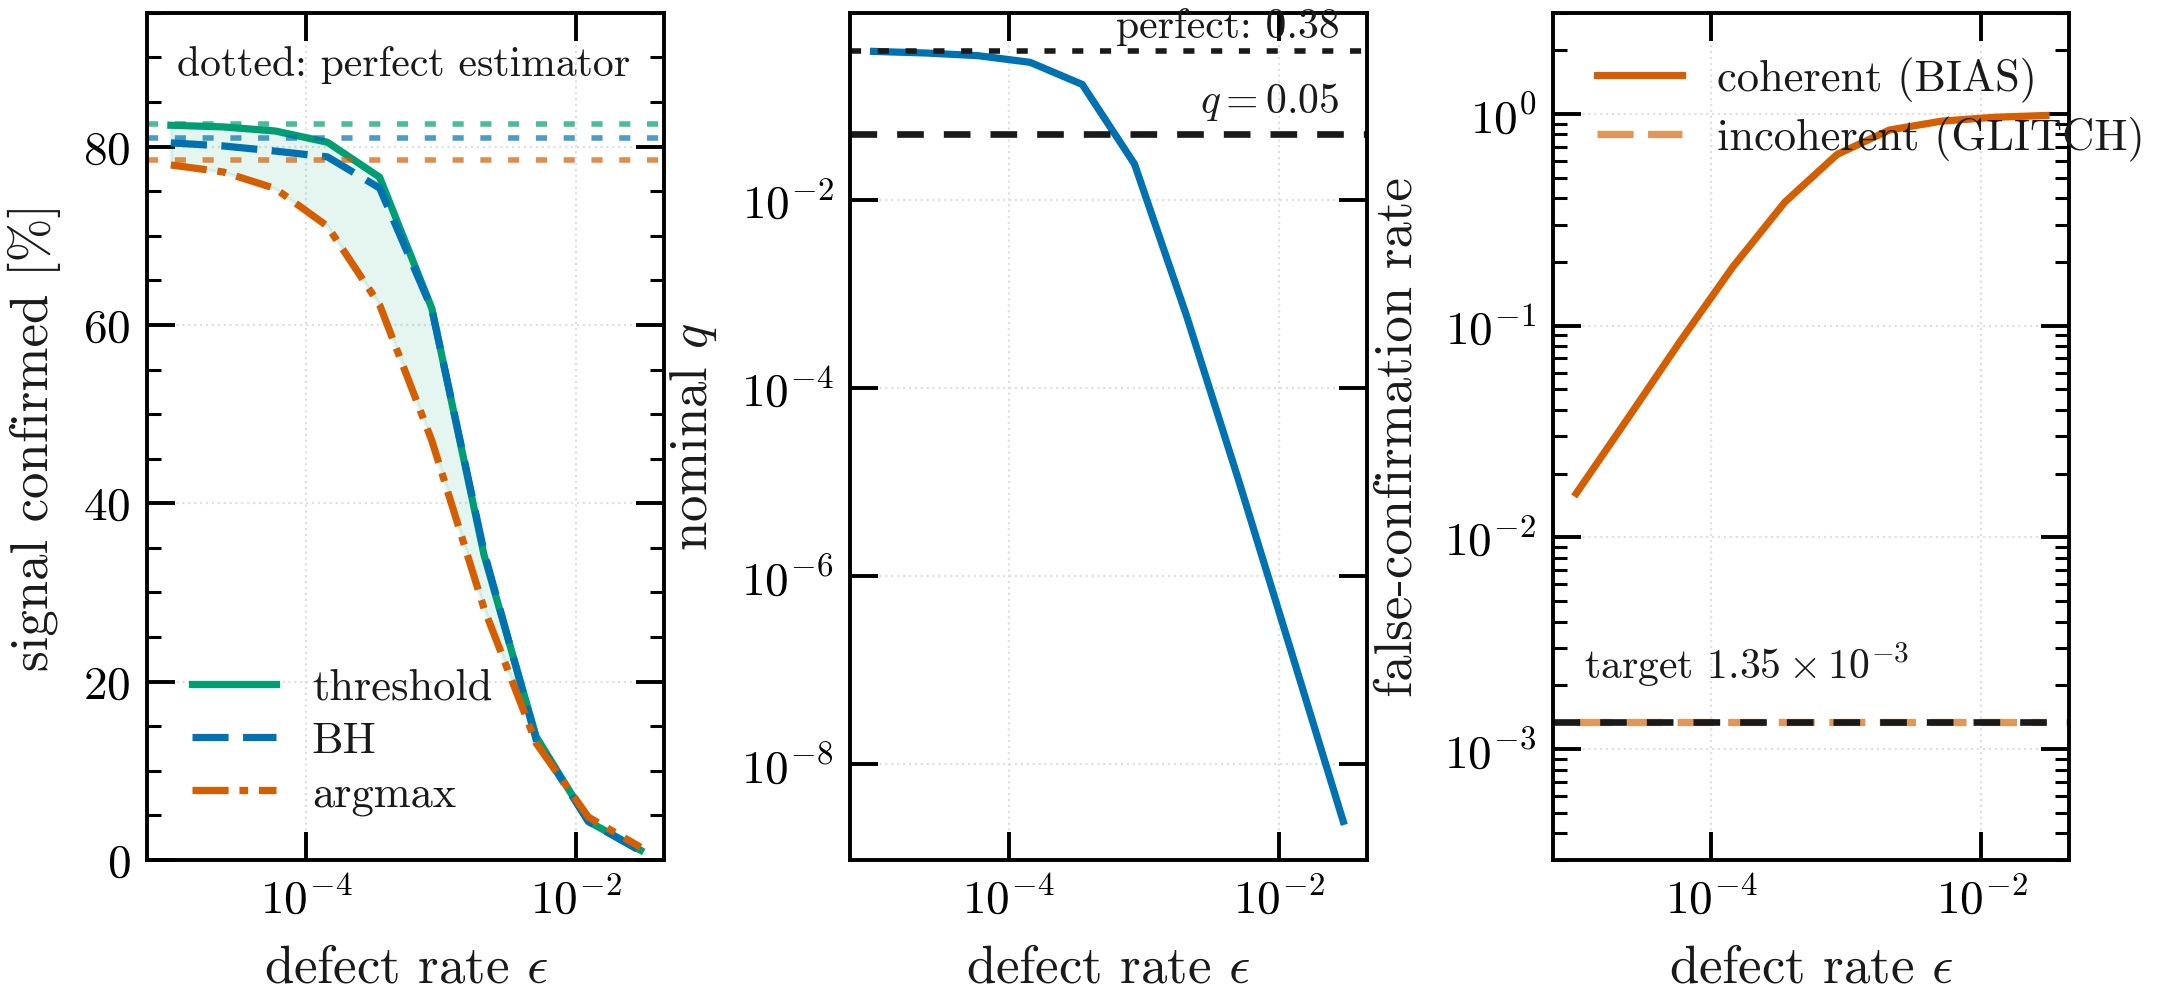
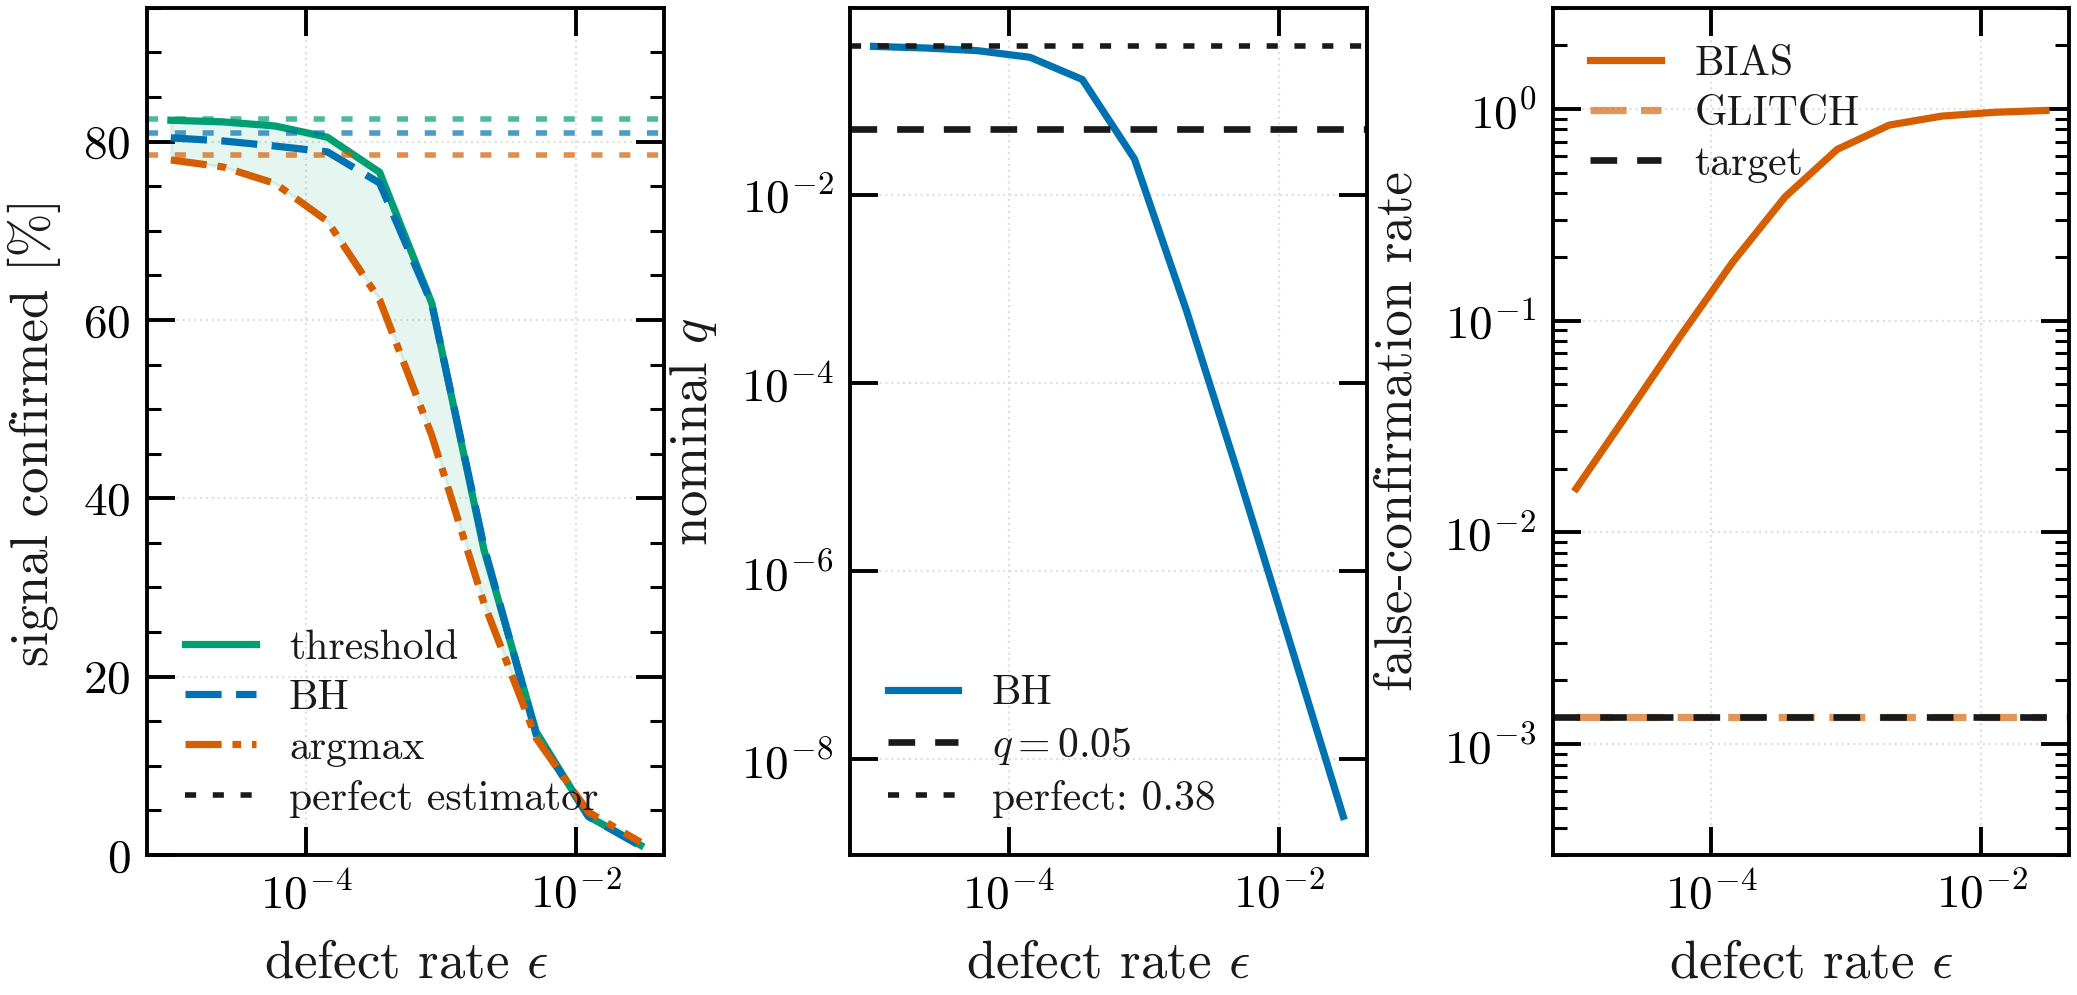
Give each panel of the selection-rule figure one legend, and link the repository
Figure 4 had its keys scattered: two or three text blocks per panel, each parked
in whichever corner happened to be free, and two of them overflowing the panel
into its neighbour's axis label. Every panel now carries exactly one frameless
legend and nothing floating -- the dotted and dashed reference lines became
legend entries instead of annotations, and the labels are short enough to sit
inside a panel 1.5 inches wide. Panels 1 and 2 key at lower left; panel 3 keys at
upper left because its curve occupies the lower left.

The census appendix now names the public repository rather than saying "the code
repository".

diff --git a/scripts/bh_fdr_outliers.py b/scripts/bh_fdr_outliers.py
@@ -270,32 +270,40 @@ for y, col, lbl, dash in ((pw_thr, c_thr, "threshold", "-"),
     a0.axhline(ref["thr" if col is c_thr else "bh" if col is c_bh else "arg"],
                color=col, lw=1.0, ls=(0, (2, 3)), alpha=0.7)
 a0.fill_between(EPS, pw_arg, pw_thr, color=c_thr, alpha=0.10)
-a0.text(2.5e-2, 88, "dotted: perfect estimator", color=ink2, fontsize=7.5, ha="right")
 a0.set_ylim(0, 95)
 a0.set_xlabel(r"defect rate $\epsilon$", color=ink2)
 a0.set_ylabel("signal confirmed [%]", color=ink2)
-a0.legend(frameon=False, fontsize=8, loc="lower left", labelcolor=ink2)
 
 # (b) the nominal FDR stops meaning anything
-a1.loglog(EPS, q_need, lw=1.3, color=c_bh)
-a1.axhline(0.05, color=ink2, lw=1.2, ls=(0, (4, 3)))
-a1.text(2.8e-2, 0.085, "$q = 0.05$", color=ink2, fontsize=7.5, ha="right")
-a1.axhline(ref_q := at_budget(b0[0], QGRID, XREF), color=ink2, lw=1.0, ls=(0, (2, 3)))
-a1.text(2.8e-2, ref_q * 1.4, f"perfect: {ref_q:.2f}",
-        color=ink2, fontsize=7.5, ha="right")
+a1.loglog(EPS, q_need, lw=1.3, color=c_bh, label="BH")
+a1.axhline(0.05, color=ink2, lw=1.2, ls=(0, (4, 3)), label="$q = 0.05$")
+a1.axhline(ref_q := at_budget(b0[0], QGRID, XREF), color=ink2, lw=1.0, ls=(0, (2, 3)),
+           label=f"perfect: {ref_q:.2f}")
 a1.set_xlabel(r"defect rate $\epsilon$", color=ink2)
 a1.set_ylabel("nominal $q$", color=ink2)
 
 # (c) the argmax has no dial at all
-a2.loglog(EPS, x_arg_b, lw=1.3, color=c_arg, label="coherent (BIAS)")
+a2.loglog(EPS, x_arg_b, lw=1.3, color=c_arg, label="BIAS")
 a2.loglog(EPS, x_arg_g, lw=1.3, ls=(0, (5, 2)), color=c_arg, alpha=0.65,
-          label="incoherent (GLITCH)")
-a2.axhline(XREF, color=ink2, lw=1.2, ls=(0, (4, 3)))
-a2.text(1.15e-5, XREF * 1.6, r"target $1.35\times10^{-3}$", color=ink2, fontsize=7.5)
+          label="GLITCH")
+a2.axhline(XREF, color=ink2, lw=1.2, ls=(0, (4, 3)),
+           label="target")
 a2.set_ylim(3e-4, 3.0)
 a2.set_xlabel(r"defect rate $\epsilon$", color=ink2)
 a2.set_ylabel("false-confirmation rate", color=ink2)
-a2.legend(frameon=False, fontsize=8, loc="upper left", labelcolor=ink2)
+
+# One frameless legend per panel and nothing floating: the dotted/dashed reference lines
+# are legend entries rather than annotations parked in whichever corner was free.
+from matplotlib.lines import Line2D
+a0.legend(handles=a0.get_legend_handles_labels()[0]
+                  + [Line2D([], [], color=ink2, lw=1.0, ls=(0, (2, 3)),
+                            label="perfect estimator")],
+          frameon=False, fontsize=7.5, loc="lower left", labelcolor=ink2,
+          handlelength=1.7, borderaxespad=0.5)
+a1.legend(frameon=False, fontsize=7.5, loc="lower left", labelcolor=ink2,
+          handlelength=1.7, borderaxespad=0.5)
+a2.legend(frameon=False, fontsize=7.5, loc="upper left", labelcolor=ink2,
+          handlelength=1.7, borderaxespad=0.5)
 
 fig.savefig(os.path.join(OUT, "bh_outliers.png"), dpi=400, facecolor=surf, bbox_inches="tight")
 print("\nwrote max_of_gaussians/bh_outliers.png")

diff --git a/scripts/export_census_bib.py b/scripts/export_census_bib.py
@@ -120,8 +120,9 @@ is how many scan that spectrum and \\emph{{last}} is the year of the most recent
 recency classification in Table~\\ref{{tab:census}} is built from.
 
 Only that most recent paper is cited, one per spectrum, so the bibliography stays the length of the
-argument rather than of the record. The record itself lives with the code, as
-\\texttt{{CENSUS\\_REFERENCES.md}} under \\texttt{{results/overviews/}}, and lists all
+argument rather than of the record. The record itself lives with the code
+(\\url{{https://github.com/rodem-hep/search-budget}}), as \\texttt{{CENSUS\\_REFERENCES.md}} under
+\\texttt{{results/overviews/}}, and lists all
 {len(set(ids))} with title, journal reference and DOI, grouped under the spectrum each is counted
 against. Assembled from the collaboration's publication record and curated by hand, so it is
 complete to the best of our knowledge rather than machine-verifiable. Scope matches the budget's, so

diff --git a/results/tex/census_appendix.tex b/results/tex/census_appendix.tex
@@ -9,8 +9,9 @@ is how many scan that spectrum and \emph{last} is the year of the most recent, w
 recency classification in Table~\ref{tab:census} is built from.
 
 Only that most recent paper is cited, one per spectrum, so the bibliography stays the length of the
-argument rather than of the record. The record itself lives with the code, as
-\texttt{CENSUS\_REFERENCES.md} under \texttt{results/overviews/}, and lists all
+argument rather than of the record. The record itself lives with the code
+(\url{https://github.com/rodem-hep/search-budget}), as \texttt{CENSUS\_REFERENCES.md} under
+\texttt{results/overviews/}, and lists all
 288 with title, journal reference and DOI, grouped under the spectrum each is counted
 against. Assembled from the collaboration's publication record and curated by hand, so it is
 complete to the best of our knowledge rather than machine-verifiable. Scope matches the budget's, so
